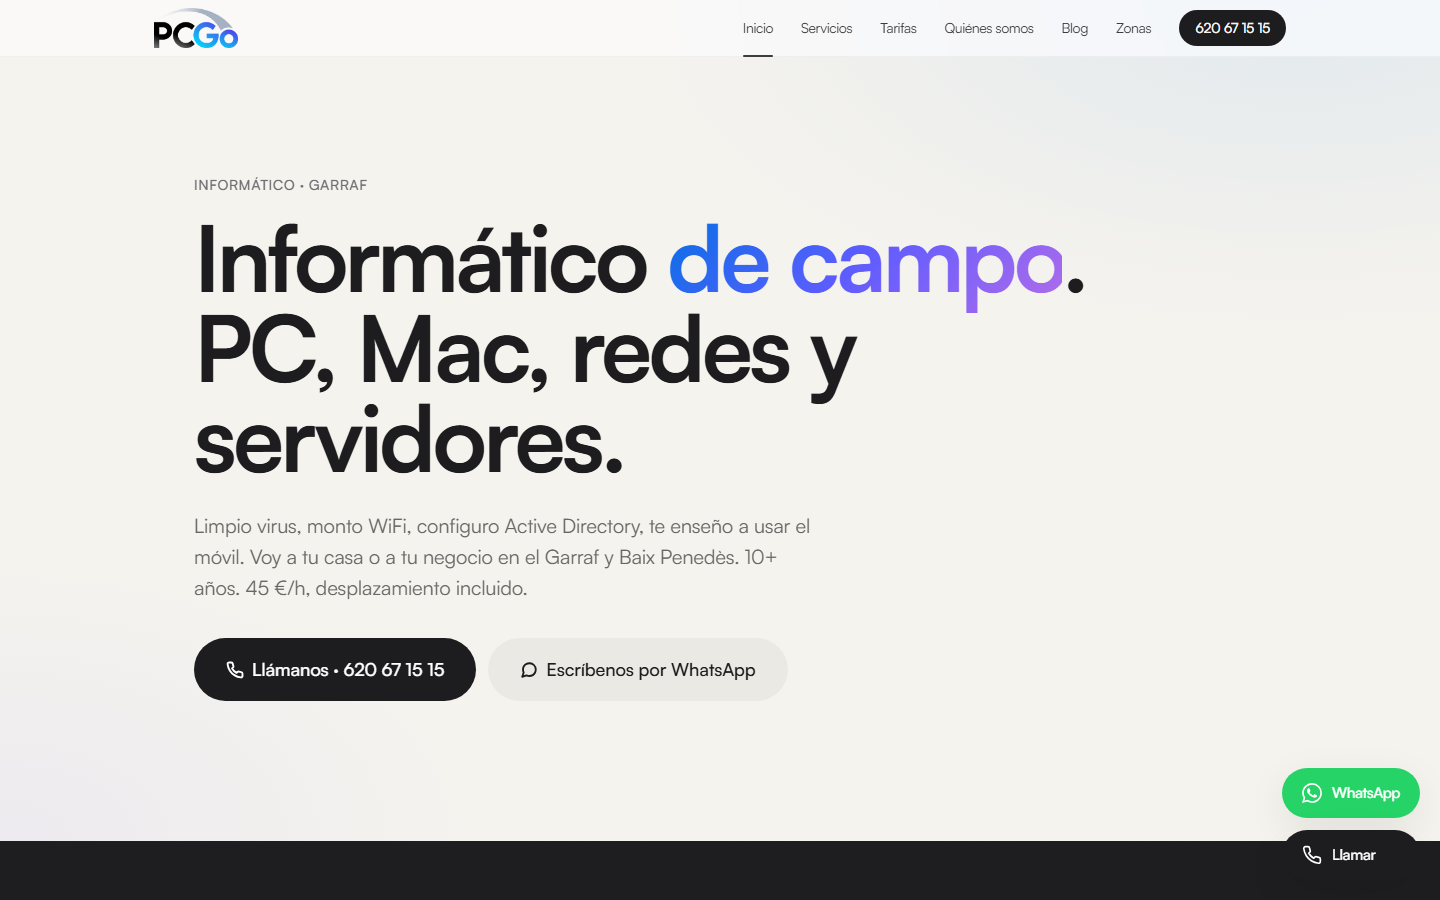
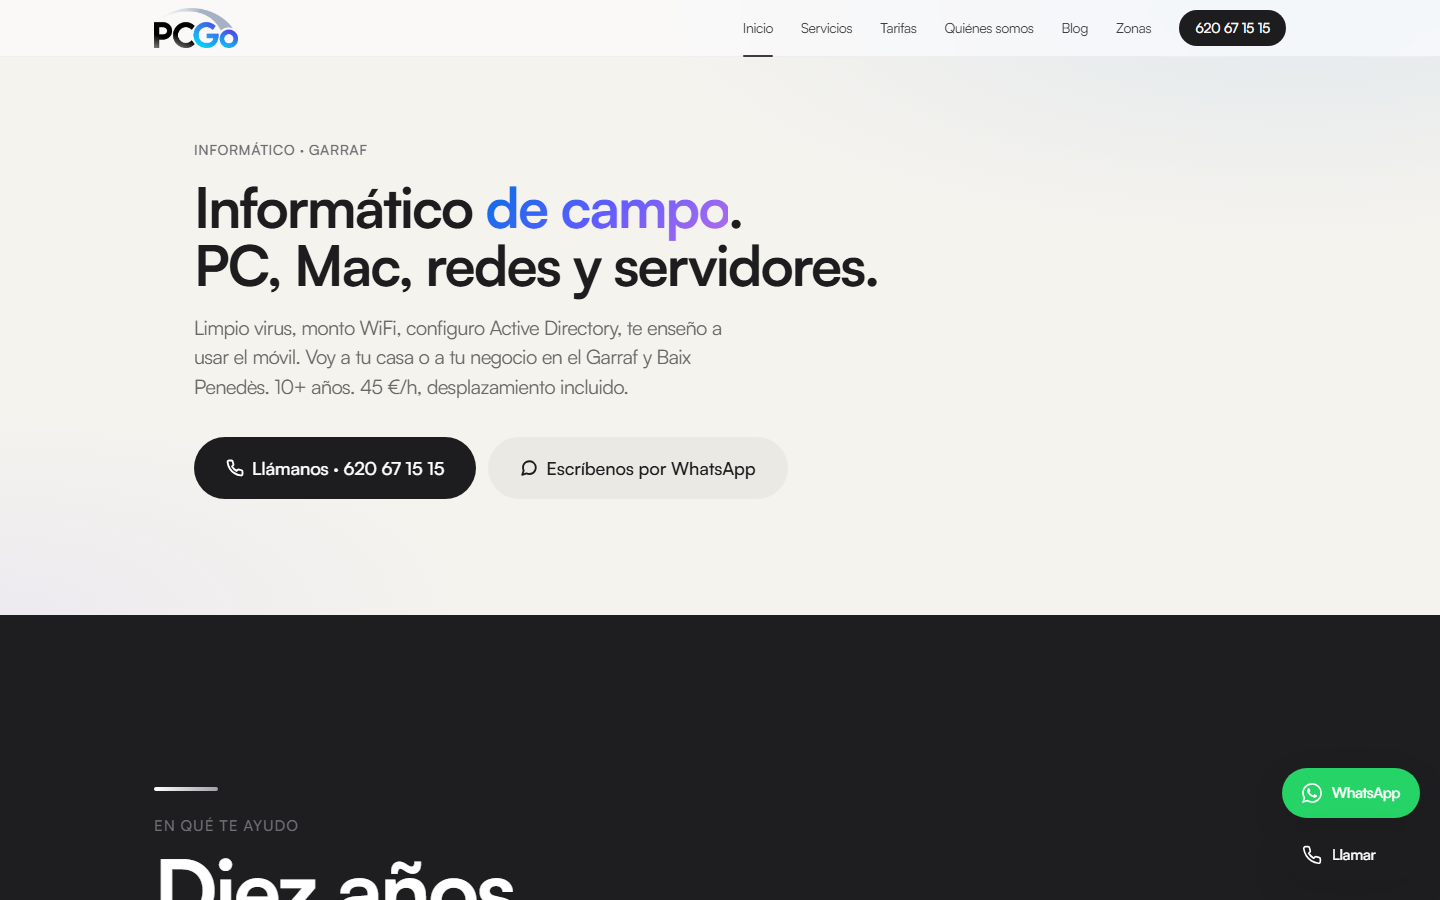
v13-final: home hero same size as inner heros (h-1, no hero--feature)
The user pushed back: "Sigue igual — no es lo mismo la hero de inicio
que el resto." The previous v13 commit unified the visual style
(eyebrow, background, gradient placement, typography) but kept the
home bigger via .hero--feature + display-1. That was wrong.

This commit makes the home hero use the exact same .hero--gradient +
h-1 size as the inner pages. The home is now distinguished from the
rest ONLY by:
  1. Longer title copy
  2. The CTA buttons (inner pages have no CTAs in the hero)

Removed:
  - .hero--feature modifier from CSS (no longer used)
  - display-1 title on home (now uses h-1 like the rest)
  - hero__title size override

Not pushed to origin. Awaiting user's authorization.

diff --git a/public/global.css b/public/global.css
@@ -1003,16 +1003,9 @@ h1, h2, h3, h4, h5 {
 }
 
 /* ---------- Hero — feature modifier (used on home only) ----------
-   Same warm-ivory gradient background as .hero--gradient, but with a bit
-   more breathing room and a bigger display-1 title. Keeps the visual
-   language of the rest of the site intact (left-aligned, eyebrow, gradient
-   text on the key word). */
-.hero--feature {
-  padding-top: calc(56px + clamp(64px, 8vw, 120px));
-  padding-bottom: clamp(80px, 10vw, 140px);
-}
-.hero--feature .hero__title { margin-bottom: 28px; max-width: 1050px; }
-.hero--feature .hero__sub   { font-size: clamp(1.05rem, 1.5vw, 1.28rem); line-height: 1.5; max-width: 620px; }
+   Removed in v13 final: the home hero now uses the same .hero--gradient
+   and h-1 size as inner pages. The home stays the "important" page
+   through copy length + the CTA buttons, not through a bigger title. */
 
 /* ---------- Cinematic product/feature visual block ---------- */
 .product-visual {

diff --git a/src/styles/global.css b/src/styles/global.css
@@ -1003,16 +1003,9 @@ h1, h2, h3, h4, h5 {
 }
 
 /* ---------- Hero — feature modifier (used on home only) ----------
-   Same warm-ivory gradient background as .hero--gradient, but with a bit
-   more breathing room and a bigger display-1 title. Keeps the visual
-   language of the rest of the site intact (left-aligned, eyebrow, gradient
-   text on the key word). */
-.hero--feature {
-  padding-top: calc(56px + clamp(64px, 8vw, 120px));
-  padding-bottom: clamp(80px, 10vw, 140px);
-}
-.hero--feature .hero__title { margin-bottom: 28px; max-width: 1050px; }
-.hero--feature .hero__sub   { font-size: clamp(1.05rem, 1.5vw, 1.28rem); line-height: 1.5; max-width: 620px; }
+   Removed in v13 final: the home hero now uses the same .hero--gradient
+   and h-1 size as inner pages. The home stays the "important" page
+   through copy length + the CTA buttons, not through a bigger title. */
 
 /* ---------- Cinematic product/feature visual block ---------- */
 .product-visual {

diff --git a/tools/capture_v13.py b/tools/capture_v13.py
@@ -4,7 +4,7 @@ from playwright.sync_api import sync_playwright
 
 SHOTS = Path(r"C:\Users\puchu\.mavis\workspace\satpcgo-rebuild\previews-v13")
 SHOTS.mkdir(exist_ok=True)
-BASE = "http://localhost:14322"
+BASE = "http://localhost:14323"
 PAGES = [
     ("",                          "v13-home-hero.png",       (0, 0, 1440, 900)),
     ("/quienes-somos",            "v13-quienes-hero.png",   (0, 0, 1440, 900)),
